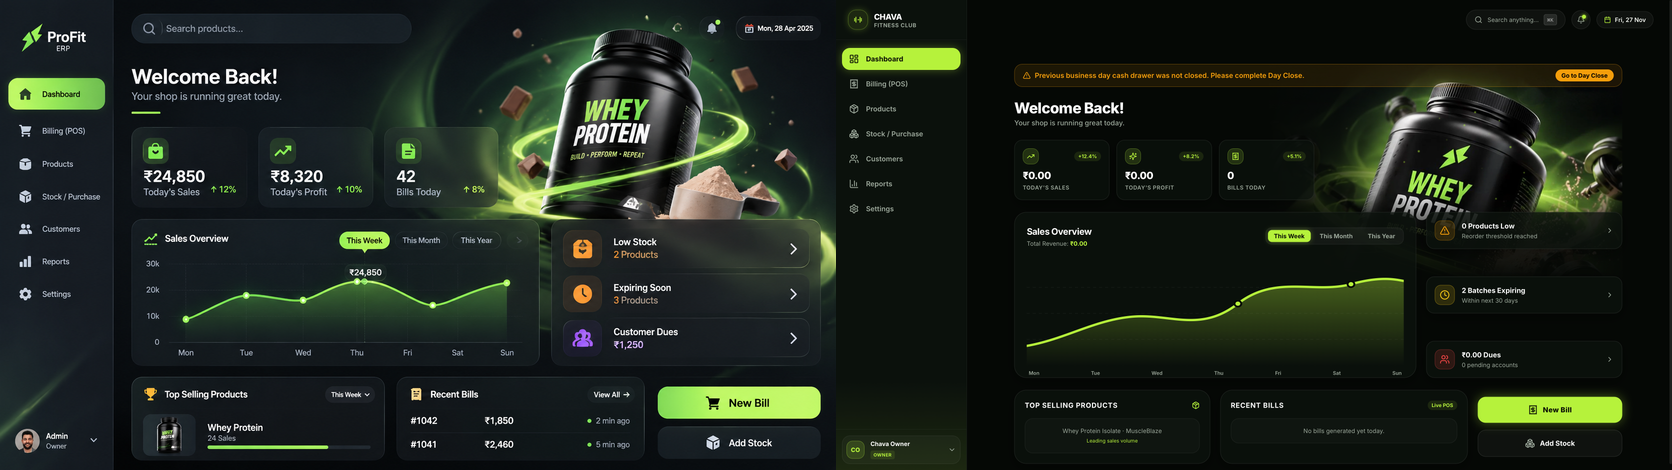
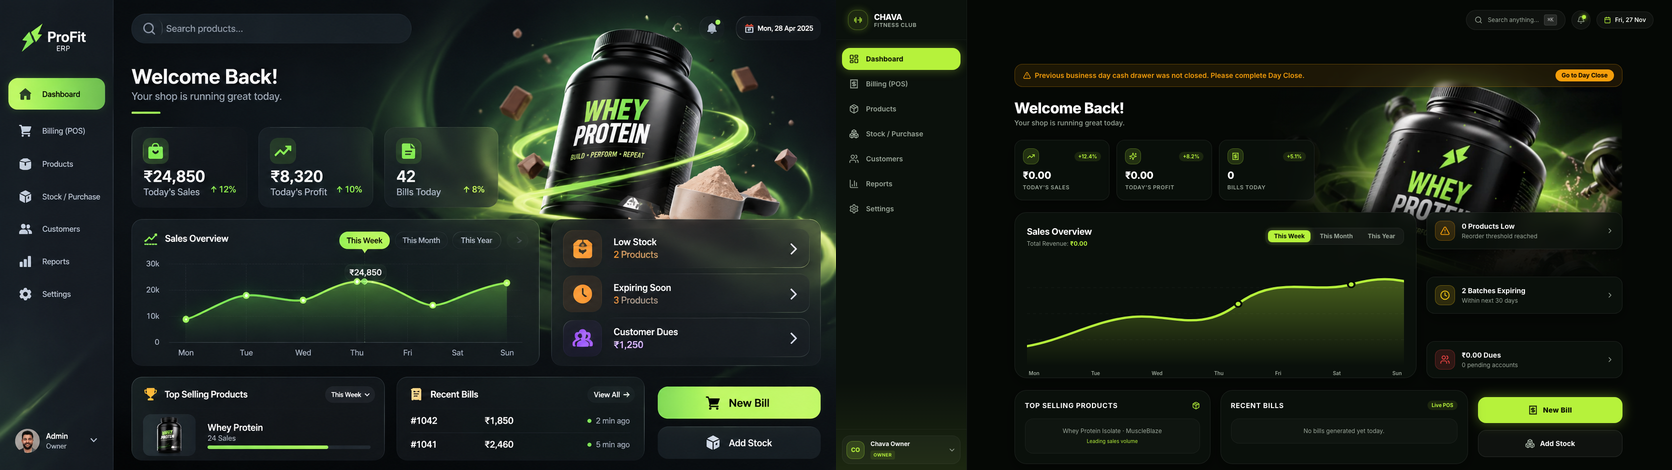
feat: clean whey protein hero backdrop, 0% default GST, and quick stock adding

diff --git a/client/src/pages/ProductsPage.jsx b/client/src/pages/ProductsPage.jsx
@@ -238,7 +238,7 @@ function ProductForm({ product, categories, onSave, onClose, onCategoryCreated }
                   ))}
                   <div>
                     <label className="block text-[10px] font-bold text-primary uppercase tracking-wider mb-1">
-                      Current Stock (Units)
+                      Stock / Opening Units
                     </label>
                     <input
                       type="number"
@@ -272,6 +272,119 @@ function ProductForm({ product, categories, onSave, onClose, onCategoryCreated }
   );
 }
 
+// ---- Quick Stock Modal ----
+function QuickStockModal({ product, variant, onSave, onClose }) {
+  const [addQty, setAddQty] = useState('');
+  const [saving, setSaving] = useState(false);
+  const [error, setError] = useState('');
+
+  async function handleSubmit(e) {
+    e.preventDefault();
+    const qty = parseInt(addQty, 10);
+    if (isNaN(qty) || qty <= 0) {
+      setError('Please enter a valid positive number of units');
+      return;
+    }
+
+    setSaving(true);
+    setError('');
+    try {
+      const updatedVariants = product.variants.map((v) => {
+        if (v._id === variant._id) {
+          return {
+            ...v,
+            stock: (v.stock || 0) + qty,
+          };
+        }
+        return v;
+      });
+
+      await productsApi.update(product._id, {
+        name: product.name,
+        brand: product.brand,
+        category: product.category?._id || product.category,
+        hsn: product.hsn,
+        gstRate: product.gstRate,
+        description: product.description,
+        variants: updatedVariants,
+      });
+
+      onSave();
+    } catch (err) {
+      setError(err.response?.data?.error?.message || 'Failed to update stock');
+    } finally {
+      setSaving(false);
+    }
+  }
+
+  return (
+    <div className="fixed inset-0 bg-black/70 backdrop-blur-sm flex items-center justify-center z-50 p-4">
+      <div className="bg-bg-elevated border border-border rounded-2xl w-full max-w-md p-5 space-y-4">
+        <div className="flex items-center justify-between border-b border-border pb-3">
+          <div>
+            <h3 className="font-bold text-text text-base">Add Stock</h3>
+            <p className="text-muted text-xs">{product.name} ({variant.flavour} · {variant.size})</p>
+          </div>
+          <button onClick={onClose} className="p-1.5 rounded-lg hover:bg-surface text-muted hover:text-text">
+            <X className="w-5 h-5" />
+          </button>
+        </div>
+
+        <form onSubmit={handleSubmit} className="space-y-4">
+          <div className="bg-surface border border-border rounded-xl p-3 flex justify-between items-center text-xs">
+            <span className="text-muted font-medium">Current Stock on Hand:</span>
+            <span className="font-bold text-text text-sm">{variant.stock || 0} units</span>
+          </div>
+
+          <div>
+            <label className="block text-xs font-semibold text-muted uppercase tracking-wider mb-1">
+              Units to Add
+            </label>
+            <input
+              type="number"
+              min="1"
+              value={addQty}
+              onChange={(e) => setAddQty(e.target.value)}
+              placeholder="e.g. 10"
+              autoFocus
+              required
+              className="w-full bg-bg border border-primary/40 rounded-xl px-3 py-2.5 text-base text-text font-bold focus:outline-none focus:border-primary focus:ring-1 focus:ring-primary"
+            />
+            {addQty && Number(addQty) > 0 && (
+              <p className="text-xs text-primary mt-1.5 font-medium">
+                New stock total will be: {(variant.stock || 0) + Number(addQty)} units
+              </p>
+            )}
+          </div>
+
+          {error && (
+            <div className="bg-danger/10 border border-danger/30 text-danger text-xs rounded-xl px-3 py-2">
+              {error}
+            </div>
+          )}
+
+          <div className="flex gap-2 pt-2">
+            <button
+              type="button"
+              onClick={onClose}
+              className="flex-1 py-2.5 rounded-xl border border-border text-muted text-sm font-semibold hover:border-primary/40 transition-colors"
+            >
+              Cancel
+            </button>
+            <button
+              type="submit"
+              disabled={saving || !addQty}
+              className="flex-1 py-2.5 rounded-xl bg-primary text-primary-ink text-sm font-bold hover:brightness-110 transition-all disabled:opacity-50"
+            >
+              {saving ? 'Adding...' : 'Add Stock'}
+            </button>
+          </div>
+        </form>
+      </div>
+    </div>
+  );
+}
+
 // ---- Main Page ----
 export function ProductsPage() {
   const { isOwner } = useAuth();
@@ -282,6 +395,7 @@ export function ProductsPage() {
   const [selectedCat, setSelectedCat] = useState('');
   const [showForm, setShowForm] = useState(false);
   const [editProduct, setEditProduct] = useState(null);
+  const [quickStockTarget, setQuickStockTarget] = useState(null);
   const [expanded, setExpanded] = useState({});
 
   const load = useCallback(async () => {
@@ -410,6 +524,7 @@ export function ProductsPage() {
                             {isOwner && <th className="text-right pb-2 font-semibold">Cost</th>}
                             <th className="text-right pb-2 font-semibold">Stock</th>
                             <th className="text-left pb-2 font-semibold pl-3">SKU</th>
+                            {isOwner && <th className="text-right pb-2 font-semibold">Stock Action</th>}
                           </tr>
                         </thead>
                         <tbody>
@@ -423,6 +538,20 @@ export function ProductsPage() {
                                 {isOwner && <td className="text-right text-muted">{formatINR(v.purchasePrice)}</td>}
                                 <td className={`text-right font-bold ${isLow ? 'text-warning' : 'text-success'}`}>{v.stock}</td>
                                 <td className="text-left pl-3 text-muted font-mono">{v.sku}</td>
+                                {isOwner && (
+                                  <td className="text-right py-2">
+                                    <button
+                                      type="button"
+                                      onClick={(e) => {
+                                        e.stopPropagation();
+                                        setQuickStockTarget({ product: p, variant: v });
+                                      }}
+                                      className="inline-flex items-center gap-1 px-2.5 py-1 rounded-lg bg-primary/10 hover:bg-primary/20 text-primary border border-primary/30 font-semibold text-[11px] transition-colors"
+                                    >
+                                      <Plus className="w-3 h-3" /> Add Stock
+                                    </button>
+                                  </td>
+                                )}
                               </tr>
                             );
                           })}
@@ -444,6 +573,15 @@ export function ProductsPage() {
           onSave={() => { setShowForm(false); setEditProduct(null); load(); }}
           onClose={() => { setShowForm(false); setEditProduct(null); }}
           onCategoryCreated={(newCat) => setCategories((prev) => [...prev, newCat])}
+        />
+      )}
+
+      {quickStockTarget && (
+        <QuickStockModal
+          product={quickStockTarget.product}
+          variant={quickStockTarget.variant}
+          onSave={() => { setQuickStockTarget(null); load(); }}
+          onClose={() => setQuickStockTarget(null)}
         />
       )}
     </div>

diff --git a/server/src/services/product.service.js b/server/src/services/product.service.js
@@ -53,6 +53,16 @@ export const productService = {
       Product.countDocuments(query),
     ]);
 
+    // Enrich variants with real-time StockBatch total
+    for (const p of products) {
+      if (Array.isArray(p.variants)) {
+        for (const v of p.variants) {
+          const batches = await StockBatch.find({ variantId: v._id, qtyLeft: { $gt: 0 } });
+          v.stock = batches.reduce((sum, b) => sum + (b.qtyLeft || 0), 0);
+        }
+      }
+    }
+
     // Apply stockStatus filter in memory if specified
     let filtered = products.map((p) => sanitizeProductForUser(p, userRole));
 
@@ -79,6 +89,12 @@ export const productService = {
   async getById(id, userRole = 'staff') {
     const product = await Product.findById(id).populate('category', 'name');
     if (!product) return null;
+    if (Array.isArray(product.variants)) {
+      for (const v of product.variants) {
+        const batches = await StockBatch.find({ variantId: v._id, qtyLeft: { $gt: 0 } });
+        v.stock = batches.reduce((sum, b) => sum + (b.qtyLeft || 0), 0);
+      }
+    }
     return sanitizeProductForUser(product, userRole);
   },
 
